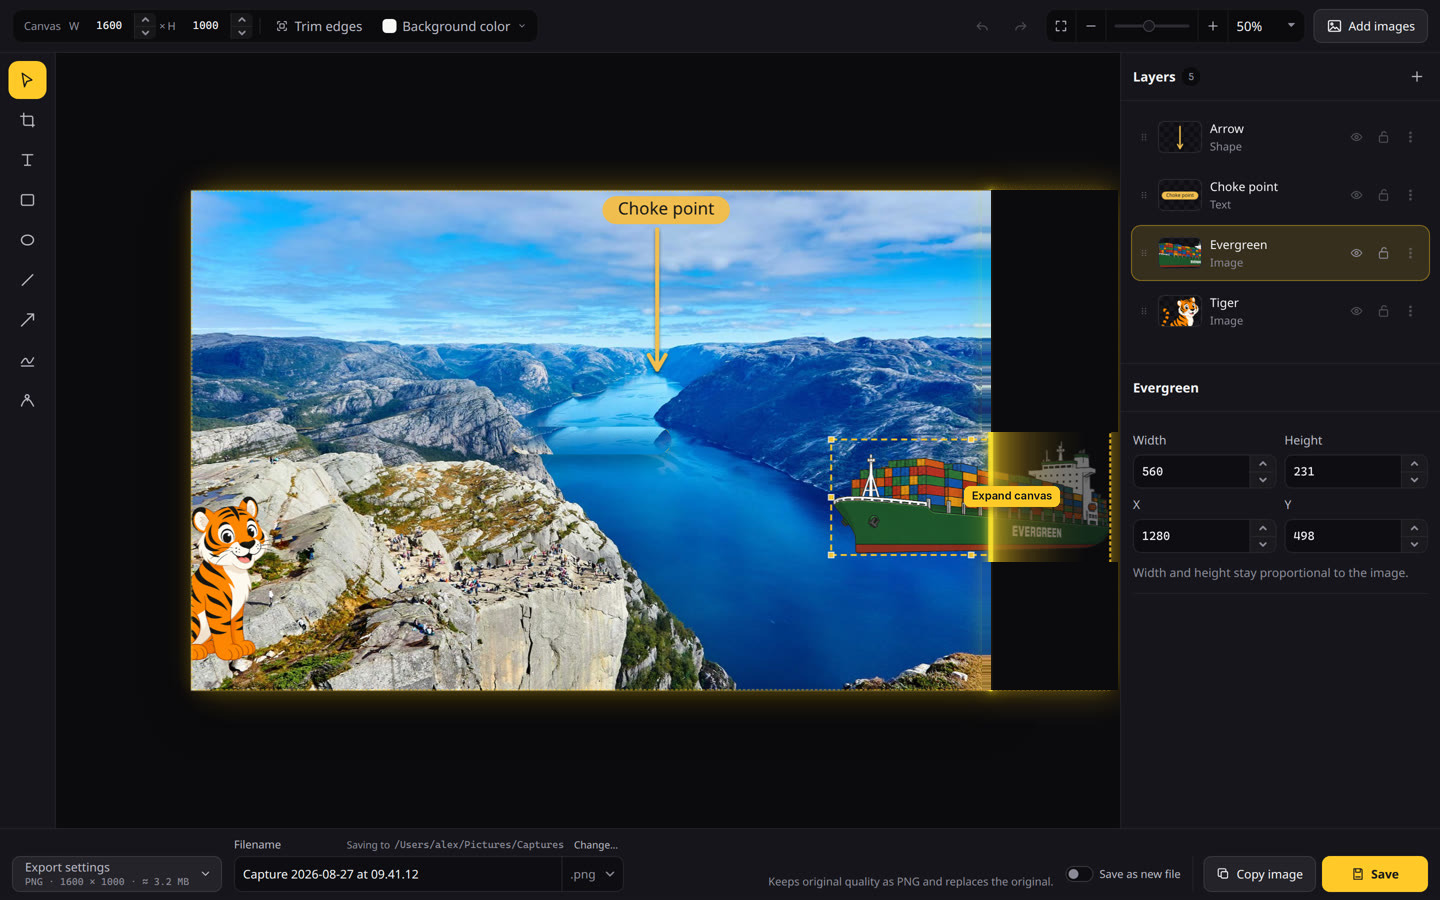
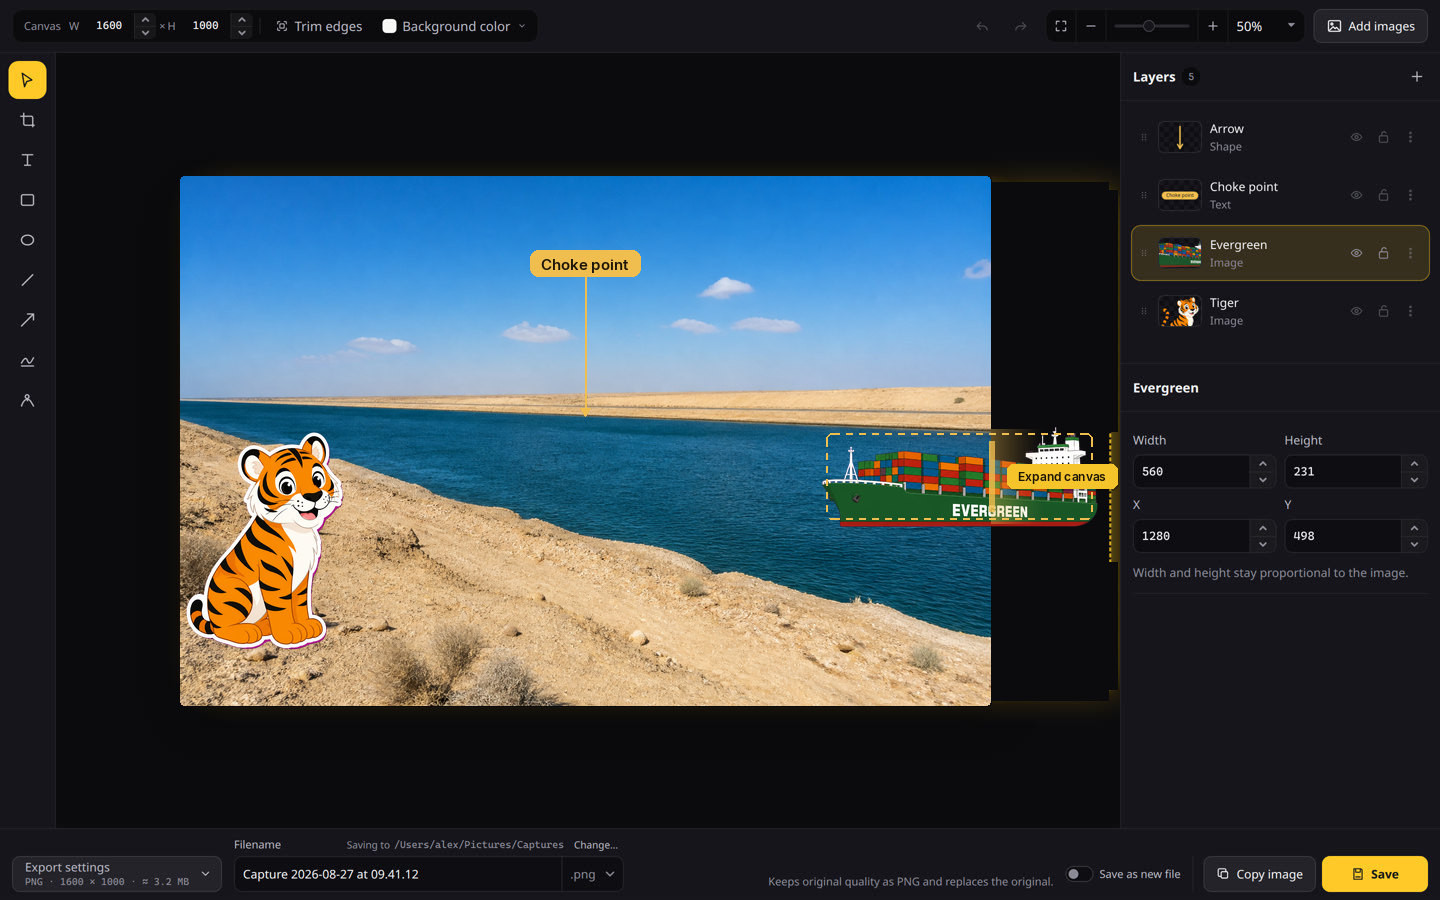
Tell the Ever Given gag from region capture through a totality trim (#288)
<!-- CURSOR_AGENT_PR_BODY_BEGIN -->
## What

Homepage gallery stills now tell one running gag, in this order:

1. **Draw a region** — aerial satellite of the Ever Given wedged in the
Suez Canal
2. **Edit screenshots** — the existing close-up (canal, tiger, hanging
Evergreen ship, Expand canvas)
3. **Polish recordings** — a different gag: trim a few seconds of
solar-eclipse totality
4. Capture menu and Preferences stay as they were

Short stills stay centered in the gallery card (from the earlier commit
on this branch).

## Why

Draw a region is the aerial of where the ship actually stuck. The next
slide is the editor close-up. The video slide is an eclipse trim so it
is not another boat.

## Impact

Website gallery and README product shots share the same files and alts.
Capture-controls and Preferences stills are unchanged.

## Validation

- `npm run test:release-version` — pass (53 tests)
- Desktop `typecheck`, `lint`, and `vitest` — pass (433 tests)
- Web tests — pass, including JPEG dimension checks for the new stills
- `npm run build:web` — pass (GitHub history fetch needs a valid token
or none; local invalid `GITHUB_TOKEN` 401s, unauthenticated fetch works)
- Browser: production Nitro at `http://127.0.0.1:3000/` — gallery 1/5
aerial Ever Given, 2/5 editor close-up, 3/5 eclipse totality trim

Not run: Rust fmt/clippy/tests (no crate changes). Docker image build
(no Docker changes).
<!-- CURSOR_AGENT_PR_BODY_END -->

<div><a
[…]

diff --git a/apps/web/src/productShots.ts b/apps/web/src/productShots.ts
@@ -11,7 +11,7 @@ export const PRODUCT_SHOTS = [
     height: 1000,
     title: "Draw a region",
     description: "Click and drag a box on the desktop, or switch to a window or full display.",
-    alt: "Captures region capture over a landscape, with a highlighted box, corner handles, and the capture menu",
+    alt: "Captures region capture over an aerial satellite view of the Ever Given in the Suez Canal, with a highlighted box, corner handles, and the capture menu",
   },
   {
     id: "screenshot-editor",
@@ -20,7 +20,16 @@ export const PRODUCT_SHOTS = [
     height: 900,
     title: "Edit screenshots",
     description: "Text, arrows, and stickers. Hover a hanging layer to expand the canvas.",
-    alt: "Captures screenshot editor with a fjord landscape, a Choke point label, a tiger on the left cliff, and an Evergreen ship hanging off the right edge with an Expand canvas button",
+    alt: "Captures screenshot editor with the Suez Canal, a Choke point label, a tiger on the left bank, and an Evergreen ship hanging off the right edge with an Expand canvas button",
+  },
+  {
+    id: "video-editor",
+    file: "video-editor.jpg",
+    width: 1440,
+    height: 980,
+    title: "Polish recordings",
+    description: "Preview, trim, crop, and export video with size and audio controls.",
+    alt: "Captures video editor trimming a total solar eclipse to a few seconds of totality, with crop handles and save controls",
   },
   {
     id: "capture-controls",
@@ -30,15 +39,6 @@ export const PRODUCT_SHOTS = [
     title: "Everything in reach",
     description: "Capture type and target controls sit together in one compact menu.",
     alt: "Close-up of the Captures capture menu with screenshot and recording options",
-  },
-  {
-    id: "video-editor",
-    file: "video-editor.jpg",
-    width: 1440,
-    height: 980,
-    title: "Polish recordings",
-    description: "Preview, trim, crop, and export video with size and audio controls.",
-    alt: "Captures video editor with a landscape preview, crop handles, trimming timeline, and save controls",
   },
   {
     id: "preferences",

diff --git a/apps/web/src/index.css b/apps/web/src/index.css
@@ -203,8 +203,10 @@
   }
 
   /*
-   * Size the card to the tallest still (object-fit: contain). Captions and nav
-   * stay put when a shorter shot is showing, and editor chrome is not clipped.
+   * Size the card to the tallest still. Captions and nav stay put when a
+   * shorter shot is showing, and editor chrome is not clipped. The image box
+   * fills the frame so object-fit: contain can center wide or short stills;
+   * auto height on an absolutely positioned <img> would pin them to the top.
    */
   .product-gallery-frame {
     position: relative;
@@ -238,11 +240,13 @@
 
   .product-gallery-image {
     position: absolute;
-    inset: 0.2rem;
+    top: 0.2rem;
+    left: 0.2rem;
     display: block;
-    width: auto;
-    height: auto;
+    width: calc(100% - 0.4rem);
+    height: calc(100% - 0.4rem);
     object-fit: contain;
+    object-position: center;
     border-radius: 0.375rem;
     user-select: none;
     pointer-events: none;
@@ -252,7 +256,10 @@
 
   @media (min-width: 640px) {
     .product-gallery-image {
-      inset: 0.4rem;
+      top: 0.4rem;
+      left: 0.4rem;
+      width: calc(100% - 0.8rem);
+      height: calc(100% - 0.8rem);
     }
   }
 

diff --git a/apps/web/src/productShots.test.ts b/apps/web/src/productShots.test.ts
@@ -15,8 +15,8 @@ test("website product shots cover the README stills with unique files", () => {
     [
       "capture-selection",
       "screenshot-editor",
-      "capture-controls",
       "video-editor",
+      "capture-controls",
       "preferences",
     ],
   );

diff --git a/README.md b/README.md
@@ -9,7 +9,7 @@ Captures is a cross-platform screen capture utility built for quick captures and
 
 Edit a capture with text, arrows, and stickers. Hover a hanging layer to expand the canvas.
 
-![Captures screenshot editor with a fjord landscape, a Choke point label, a tiger on the left cliff, and an Evergreen ship hanging off the right edge with an Expand canvas button](docs/images/screenshot-editor.jpg)
+![Captures screenshot editor with the Suez Canal, a Choke point label, a tiger on the left bank, and an Evergreen ship hanging off the right edge with an Expand canvas button](docs/images/screenshot-editor.jpg)
 
 <p align="center">
   <img src="docs/images/capture-controls.jpg" alt="Close-up of the Captures capture menu with screenshot and recording options" width="728">
@@ -20,12 +20,12 @@ Edit a capture with text, arrows, and stickers. Hover a hanging layer to expand 
 <table>
   <tr>
     <td width="50%">
-      <img src="docs/images/capture-selection.jpg" alt="Captures region capture over a landscape, with a highlighted box, corner handles, and the capture menu" width="100%">
+      <img src="docs/images/capture-selection.jpg" alt="Captures region capture over an aerial satellite view of the Ever Given in the Suez Canal, with a highlighted box, corner handles, and the capture menu" width="100%">
       <br>
       <sub><strong>Draw a region</strong> like other screenshot tools, or pick a window or full display.</sub>
     </td>
     <td width="50%">
-      <img src="docs/images/video-editor.jpg" alt="Captures video editor with a landscape preview, crop handles, trimming timeline, and save controls" width="100%">
+      <img src="docs/images/video-editor.jpg" alt="Captures video editor trimming a total solar eclipse to a few seconds of totality, with crop handles and save controls" width="100%">
       <br>
       <sub><strong>Polish recordings</strong> with preview, trimming, crop and size controls, and export options.</sub>
     </td>
